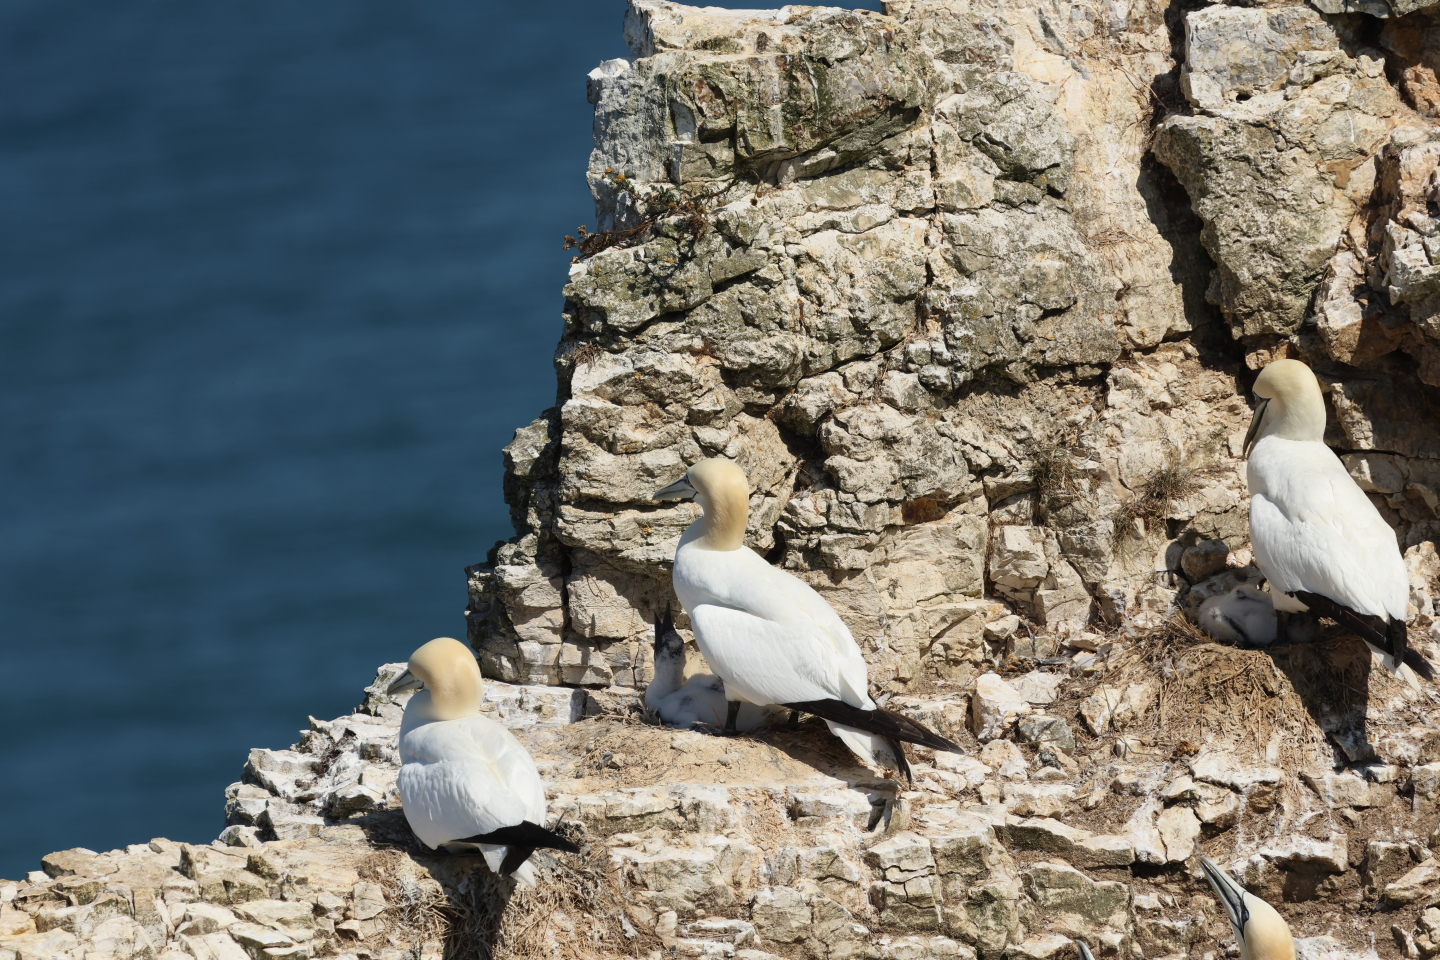
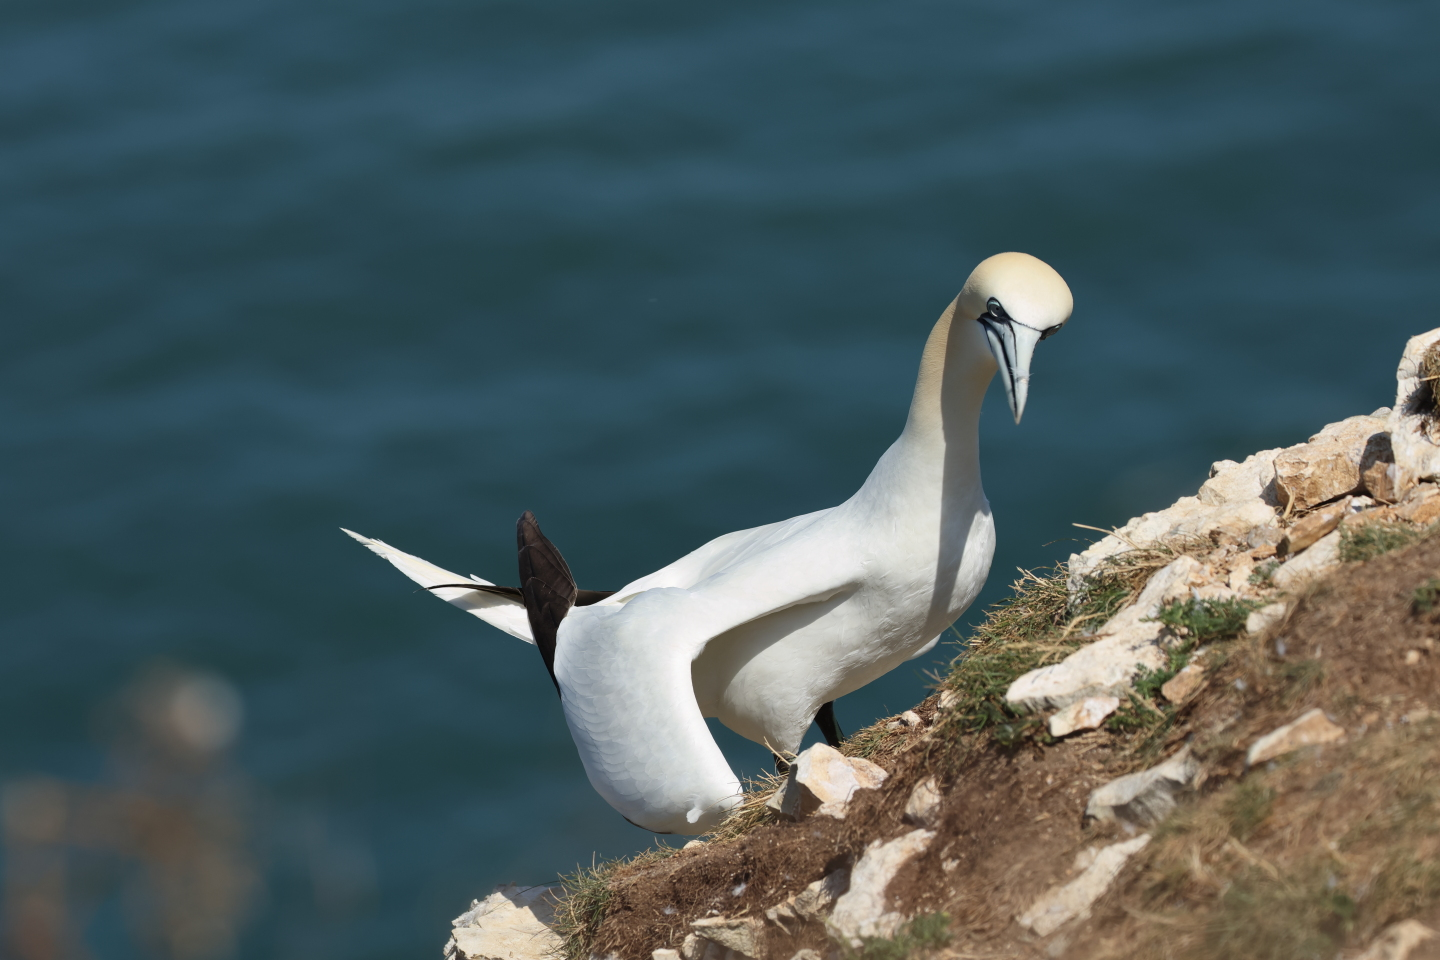
Gannet updated

diff --git a/src/api/birddata.tsx b/src/api/birddata.tsx
@@ -164,7 +164,7 @@ const birddata = [
     },
     {
         name: `Gannet`,
-        summary: `The bird featured on my RSPB card! Thousands were present at the Bempton Cliffs.They are huge and will often fly up from below close to your head at viewing points. Their babies look like big cuddly toys.`,
+        summary: `The bird featured on my RSPB card! Thousands were present at the Bempton Cliffs. They are huge and will often fly up from below close to your head at viewing points. Their babies look like big cuddly toys.`,
         imageCount: 9,
         date: `08/07/2026`,
         location: `Bempton Cliffs`,